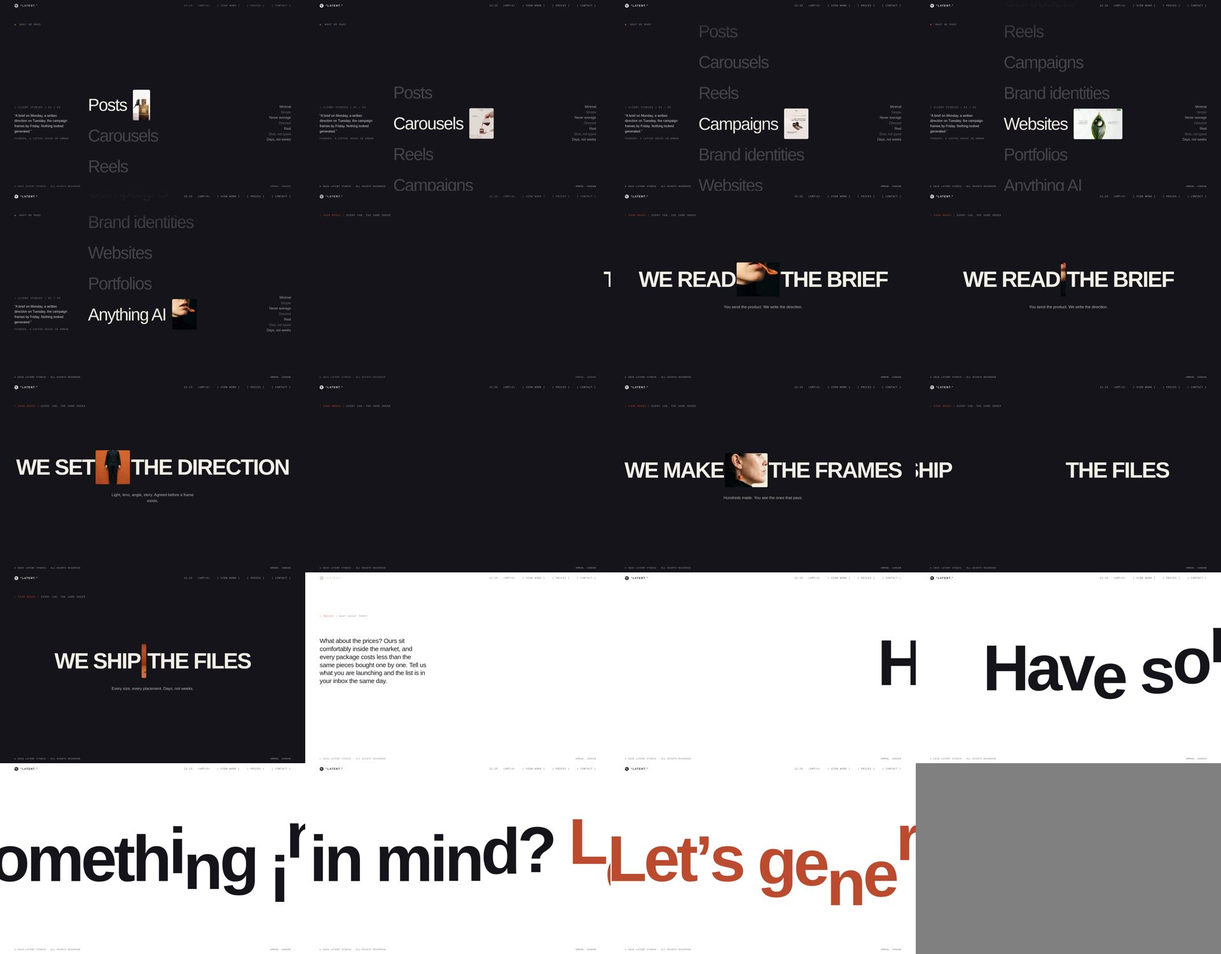
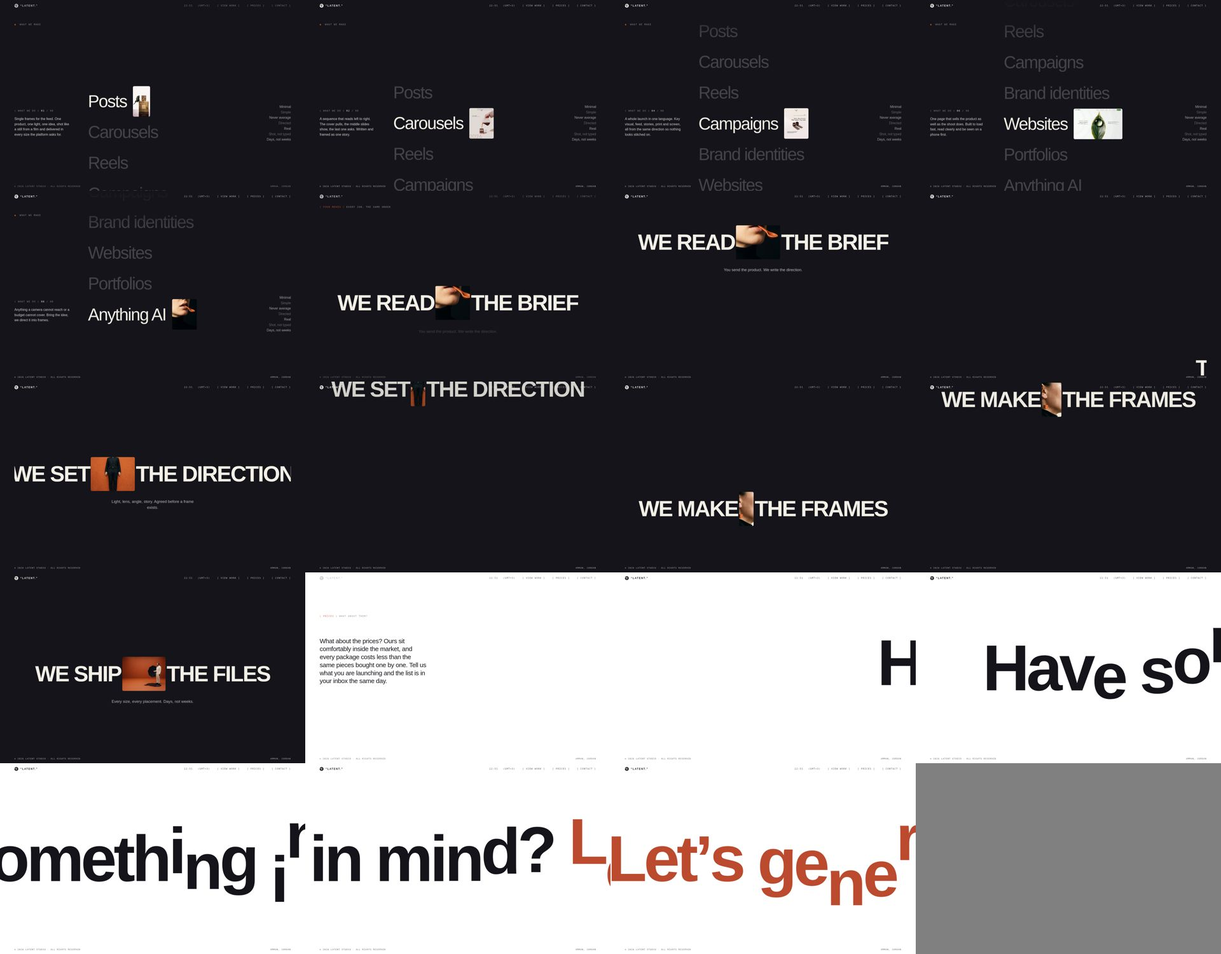
D: things list describes each service, four moves flow on the dark run
The block beside the things-we-make list now swaps to a short description of what we do for the active item, numbered 01 to 08. The four moves leave the pinned stage and sit in the page flow: each line plays as it scrolls through, words from both sides, the picture opening mid-screen and closing as it leaves. Phone list tightened so nothing overlaps the kicker or the footer.

Claude-Session: https://claude.ai/code/session_0142D8cuVtdJreCuNyu9fMo2

diff --git a/latent-v3d/index.html b/latent-v3d/index.html
@@ -2196,27 +2196,29 @@ a.stk-l{cursor:pointer}
 @media (prefers-reduced-motion:reduce){.gs-hold{height:auto}.gs-stage{position:relative;height:auto;padding:12vh var(--gut)}.gs-line{position:relative;transform:none!important;white-space:normal;font-size:clamp(40px,8vw,120px)}.gs-line .gc{transform:none!important}}
 /* ---------- the four moves, version four: we close that gap ---------- */
 .gp{padding:0}
-.gp-hold{position:relative;height:calc(100svh + var(--n,4) * 120vh)}
-.gp-stage{position:sticky;top:0;height:100vh;height:100svh;overflow:hidden}
-.gp-kick{position:absolute;left:var(--gut);top:clamp(72px,12vh,120px);margin:0;font-family:"IBM Plex Mono",monospace;font-size:11px;letter-spacing:.16em;text-transform:uppercase;color:rgba(242,239,231,.55)}
+.gp-in{max-width:none;padding:clamp(60px,14vh,160px) var(--gut) clamp(40px,10vh,120px)}
+.gp-kick{margin:0 0 clamp(120px,40vh,420px);font-family:"IBM Plex Mono",monospace;font-size:11px;letter-spacing:.16em;text-transform:uppercase;color:rgba(242,239,231,.55)}
 .gp-kick b{color:var(--marrow);font-weight:500}
-.gp-line{position:absolute;inset:0;display:flex;flex-direction:column;align-items:center;justify-content:center;visibility:hidden;padding:0 var(--gut)}
-.gp-line.on{visibility:visible}
+.gp-line{position:relative;display:flex;flex-direction:column;align-items:center;justify-content:center;margin:0 0 clamp(200px,72vh,760px);overflow:hidden;padding:.2em 0}
+.gp-line:last-child{margin-bottom:clamp(120px,30vh,320px)}
 .gp-row{display:flex;align-items:center;justify-content:center;white-space:nowrap;font-family:"Archivo","Helvetica Neue",Arial,sans-serif;font-weight:700;font-size:clamp(34px,7.2vw,124px);line-height:1;letter-spacing:-.045em;text-transform:uppercase;color:var(--ivory)}
 .gp-l,.gp-r{display:inline-block;will-change:transform}
 .gp-tile{display:inline-block;position:relative;height:1.55em;width:0;margin:0 .05em;border-radius:.05em;overflow:hidden;background:#000;will-change:width;flex:0 0 auto}
 .gp-tile img{position:absolute;top:0;left:50%;height:100%;width:auto;min-width:2.1em;transform:translateX(-50%);object-fit:cover;display:block}
 .gp-desc{margin:clamp(20px,4vh,40px) 0 0;max-width:38ch;text-align:center;font-size:clamp(15px,1.3vw,20px);line-height:1.5;color:rgba(242,239,231,.72);opacity:0;transform:translateY(12px);transition:opacity .5s ease,transform .6s cubic-bezier(.2,.8,.2,1)}
 .gp-line.told .gp-desc{opacity:1;transform:none}
-@media(max-width:820px){.gp-hold{height:calc(100svh + var(--n,4) * 100vh)}.gp-row{font-size:clamp(22px,6.2vw,34px);letter-spacing:-.04em}.gp-desc{font-size:15px}}
-@media (prefers-reduced-motion:reduce){.gp-hold{height:auto}.gp-stage{position:relative;height:auto}.gp-line{position:relative;visibility:visible;padding:14vh var(--gut)}.gp-tile{width:2em!important}.gp-l,.gp-r{transform:none!important}.gp-desc{opacity:1;transform:none}}
-/* ---------- things we make: the stacked list ---------- */
+@media(max-width:820px){.gp-kick{margin-bottom:clamp(80px,26vh,240px)}.gp-line{margin-bottom:clamp(140px,52vh,480px)}.gp-row{font-size:clamp(22px,6.2vw,34px);letter-spacing:-.04em}.gp-desc{font-size:15px}}
+@media (prefers-reduced-motion:reduce){.gp-tile{width:2em!important}.gp-l,.gp-r{transform:none!important}.gp-desc{opacity:1;transform:none}}
 .td{padding:0}
 .td-hold{position:relative;height:calc(100svh + var(--n,8) * 55vh)}
 .td-stage{position:sticky;top:0;height:100vh;height:100svh;overflow:hidden;display:flex;align-items:center}
 .td-grid{width:100%;height:100%;display:grid;grid-template-columns:minmax(0,.7fr) minmax(0,1.9fr) auto;gap:clamp(24px,4vw,80px);align-items:center;padding:0 var(--gut)}
 .td-kick{position:absolute;left:var(--gut);top:clamp(72px,12vh,120px);z-index:2}
 .td-list{position:relative;height:100%;display:flex;flex-direction:column;justify-content:center;-webkit-mask-image:linear-gradient(180deg,transparent 0,#000 16%,#000 84%,transparent 100%);mask-image:linear-gradient(180deg,transparent 0,#000 16%,#000 84%,transparent 100%)}
+.td-quote{display:grid;align-self:center}
+.td-desc{grid-area:1/1;opacity:0;transform:translateY(12px);transition:opacity .45s ease,transform .55s cubic-bezier(.2,.8,.2,1);pointer-events:none}
+.td-desc.on{opacity:1;transform:none}
+.td-mono b{font-weight:500;color:var(--ivory)}
 .td-mono{margin:0 0 18px;font-family:"IBM Plex Mono",monospace;font-size:11px;letter-spacing:.16em;text-transform:uppercase;color:rgba(242,239,231,.5)}
 .td-mono i{font-style:normal;color:var(--marrow);margin-right:8px}
 .td-q{margin:0;max-width:30ch;font-size:clamp(14px,1.1vw,17px);line-height:1.55;color:rgba(242,239,231,.85)}
@@ -2233,8 +2235,8 @@ a.stk-l{cursor:pointer}
 @media(max-width:820px){
   .td-hold{height:calc(100svh + var(--n,8) * 42vh)}
   .td-grid{grid-template-columns:1fr;gap:18px;align-content:center}
-  .td-quote{display:none}.td-side{display:none}
-  .td-name{font-size:clamp(34px,11vw,52px)}.td-thumb{height:64px}
+  .td-kick{top:64px}.td-grid{align-content:center;grid-template-rows:auto auto;padding-top:96px;padding-bottom:64px}.td-list{order:1;height:auto;mask-image:none;-webkit-mask-image:none}.td-quote{order:2;margin-top:6px}.td-q{font-size:14px;max-width:none}.td-mono{margin-bottom:10px}.td-side{display:none}
+  .td-name{font-size:clamp(28px,9vw,40px);line-height:1.02}.td-thumb{height:40px}
 }
 @media (prefers-reduced-motion:reduce){.td-hold{height:auto}.td-stage{position:relative;height:auto;padding:12vh 0}.td-name{color:var(--ivory)}.td-thumb{opacity:1;transform:none}}
 </style>
@@ -2330,7 +2332,7 @@ a.stk-l{cursor:pointer}
     <div class="td-stage">
       <p class="td-mono td-kick"><i>&#9679;</i> What we make</p>
       <div class="td-grid">
-        <div class="td-quote"><p class="td-mono">( Client stories ) 01 / 03</p><p class="td-q">&ldquo;A brief on Monday, a written direction on Tuesday, the campaign frames by Friday. Nothing looked generated.&rdquo;</p><p class="td-who">Founder, a coffee house in Amman</p></div>
+        <div class="td-quote"><div class="td-desc js-td-desc on"><p class="td-mono">( What we do ) <b>01</b> / 08</p><p class="td-q">Single frames for the feed. One product, one light, one idea, shot like a still from a film and delivered in every size the platform asks for.</p></div><div class="td-desc js-td-desc"><p class="td-mono">( What we do ) <b>02</b> / 08</p><p class="td-q">A sequence that reads left to right. The cover pulls, the middle slides show, the last one asks. Written and framed as one story.</p></div><div class="td-desc js-td-desc"><p class="td-mono">( What we do ) <b>03</b> / 08</p><p class="td-q">Short films for the feed. Directed shot by shot and cut to the beat. No set, no crew, no reshoot day.</p></div><div class="td-desc js-td-desc"><p class="td-mono">( What we do ) <b>04</b> / 08</p><p class="td-q">A whole launch in one language. Key visual, feed, stories, print and screen, all from the same direction so nothing looks stitched on.</p></div><div class="td-desc js-td-desc"><p class="td-mono">( What we do ) <b>05</b> / 08</p><p class="td-q">The look that comes before the shoot. Colour, type, tone and the rules that keep every frame recognisably yours.</p></div><div class="td-desc js-td-desc"><p class="td-mono">( What we do ) <b>06</b> / 08</p><p class="td-q">One page that sells the product as well as the shoot does. Built to load fast, read clearly and be seen on a phone first.</p></div><div class="td-desc js-td-desc"><p class="td-mono">( What we do ) <b>07</b> / 08</p><p class="td-q">Your work, presented. A clean set of pages that shows what you make and gets out of the way.</p></div><div class="td-desc js-td-desc"><p class="td-mono">( What we do ) <b>08</b> / 08</p><p class="td-q">Anything a camera cannot reach or a budget cannot cover. Bring the idea; we direct it into frames.</p></div></div>
         <div class="td-list"><div class="td-items">
         <div class="td-item js-td-item on" data-i="0"><span class="td-name">Posts</span><span class="td-thumb" style="--ar:900/1612"><img fetchpriority="low" src="media/14-e1887959c2.jpg" alt="" loading="lazy" decoding="async"></span></div>
         <div class="td-item js-td-item" data-i="1"><span class="td-name">Carousels</span><span class="td-thumb" style="--ar:4/5"><img fetchpriority="low" src="media/15-7b1a9203b7.jpg" alt="" loading="lazy" decoding="async"></span></div>
@@ -2367,9 +2369,8 @@ a.stk-l{cursor:pointer}
 <!-- ================= PORTFOLIO — one locked stage: the media and the words appear in place, the name rotates in (21st TextRotate) ================= -->
 <!-- ================= PROCESS — the four moves as an index ================= -->
 <section class="sec dark gp js-gp" id="process">
-  <div class="gp-hold js-gp-hold" style="--n:4">
-    <div class="gp-stage">
-      <p class="gp-kick"><b>( Four moves )</b> Every job, the same order</p>
+  <div class="gp-in">
+    <p class="gp-kick"><b>( Four moves )</b> Every job, the same order</p>
       <div class="gp-line js-gp-line" data-i="0">
         <div class="gp-row"><span class="gp-l">We read</span><span class="gp-tile"><img fetchpriority="low" src="media/05-0c45a9b23b.jpg" alt="" loading="lazy" decoding="async"></span><span class="gp-r">the brief</span></div>
         <p class="gp-desc">You send the product. We write the direction.</p>
@@ -2386,7 +2387,6 @@ a.stk-l{cursor:pointer}
         <div class="gp-row"><span class="gp-l">We ship</span><span class="gp-tile"><img fetchpriority="low" src="media/10-a617fdf2b6.jpg" alt="" loading="lazy" decoding="async"></span><span class="gp-r">the files</span></div>
         <p class="gp-desc">Every size, every placement. Days, not weeks.</p>
       </div>
-    </div>
   </div>
 </section>
 
@@ -4006,27 +4006,28 @@ a.stk-l{cursor:pointer}
   function onScroll(){ if(!ticking){ ticking = true; requestAnimationFrame(frame); } }
   window.addEventListener("scroll", onScroll, { passive:true }); window.addEventListener("resize", measure); window.addEventListener("load", measure); if(document.fonts && document.fonts.ready) document.fonts.ready.then(measure); measure();
 })();
-/* the four moves, version four: we close that gap. Each move takes one segment of the hold: the right words come in
-   from the right, the left words from the left, the picture opens between them, holds, then squeezes shut as the
-   words close the gap; the description shows while the picture is open. */
+/* the four moves, version four: we close that gap, on the flowing dark run. Each move sits in the page and plays
+   as it rises through the screen: the right words come in from the right, the left words from the left, the picture
+   opens between them while the line sits mid-screen, the description shows, then the picture squeezes shut and the
+   words close the gap as the line leaves at the top. Scrolling back replays it in reverse. */
 (function(){
   var sec = document.querySelector(".js-gp"); if(!sec) return;
-  var hold = sec.querySelector(".js-gp-hold"), lines = [].slice.call(sec.querySelectorAll(".js-gp-line")), N = lines.length, reduce = window.matchMedia("(prefers-reduced-motion: reduce)").matches, ticking = false;
-  var L = lines.map(function(l){ return { el: l, a: l.querySelector(".gp-l"), b: l.querySelector(".gp-r"), t: l.querySelector(".gp-tile") }; });
+  var lines = [].slice.call(sec.querySelectorAll(".js-gp-line")), reduce = window.matchMedia("(prefers-reduced-motion: reduce)").matches, ticking = false;
+  var L = lines.map(function(l){ return { el: l, a: l.querySelector(".gp-l"), b: l.querySelector(".gp-r"), t: l.querySelector(".gp-tile"), row: l.querySelector(".gp-row"), img: l.querySelector(".gp-tile img") }; });
   var ease = function(t){ return t * t * (3 - 2 * t); }, clamp = function(v){ return Math.min(1, Math.max(0, v)); };
   function frame(){
-    ticking = false; if(reduce) return; var vh = window.innerHeight, vw = window.innerWidth, b = hold.getBoundingClientRect(); if(b.bottom < -10 || b.top > vh + 10) return;
-    var run = Math.max(1, hold.offsetHeight - vh), p = clamp(-b.top / run), f = p * N;
-    L.forEach(function(o, i){
-      var q = f - i, on = q > -0.001 && q < 1.0001 || (i === N - 1 && q >= 1); o.el.classList.toggle("on", on); if(!on) return;
-      q = clamp(q);
-      var inR = ease(clamp(q / .22)), inL = ease(clamp((q - .08) / .24)), open = ease(clamp((q - .3) / .2)) * (1 - ease(clamp((q - .72) / .2)));
-      var fs = parseFloat(getComputedStyle(o.el.querySelector(".gp-row")).fontSize), tileW = fs * 2.0 * open;
+    ticking = false; if(reduce) return; var vh = window.innerHeight, vw = window.innerWidth;
+    L.forEach(function(o){
+      var r = o.el.getBoundingClientRect(); if(o.img && r.top < vh * 2.5 && o.img.loading !== "eager") o.img.loading = "eager";
+      if(r.bottom < -10 || r.top > vh + 10) return;
+      var a = clamp((vh * .92 - r.top) / (vh * .5)), e = clamp((vh * .42 - r.bottom) / (vh * .3));
+      var inR = ease(clamp(a / .55)), inL = ease(clamp((a - .12) / .55)), open = ease(clamp((a - .5) / .5)) * (1 - ease(e));
+      var fs = parseFloat(getComputedStyle(o.row).fontSize), tileW = fs * 2.0 * open;
       o.b.style.transform = "translate3d(" + ((1 - inR) * vw * .7).toFixed(1) + "px,0,0)";
       o.a.style.transform = "translate3d(" + (-(1 - inL) * vw * .7).toFixed(1) + "px,0,0)";
       o.t.style.width = tileW.toFixed(1) + "px";
-      o.el.classList.toggle("told", q > .34 && q < .9);
-      var out = i < N - 1 ? ease(clamp((q - .92) / .08)) : 0; o.el.style.opacity = (1 - out).toFixed(3);
+      o.el.classList.toggle("told", a > .7 && e < .35);
+      o.el.style.opacity = (1 - ease(clamp((e - .5) / .5))).toFixed(3);
     });
   }
   function onScroll(){ if(!ticking){ ticking = true; requestAnimationFrame(frame); } }
@@ -4040,8 +4041,9 @@ a.stk-l{cursor:pointer}
     ticking = false; var vh = window.innerHeight, b = hold.getBoundingClientRect(); if(b.bottom < -10 || b.top > vh + 10) return;
     var run = Math.max(1, hold.offsetHeight - vh), p = Math.min(1, Math.max(0, -b.top / run)), i = Math.min(N - 1, Math.floor(p * N));
     if(i !== at){ at = i; items.forEach(function(it, k){ it.classList.toggle("on", k === i); });
+      [].forEach.call(sec.querySelectorAll(".js-td-desc"), function(d, k){ d.classList.toggle("on", k === i); });
       var list = items[i].parentNode, st = list.parentNode.getBoundingClientRect(), it = items[i], c = it.offsetTop + it.offsetHeight / 2;
-      list.style.transform = "translate3d(0," + (list.offsetHeight / 2 - c).toFixed(1) + "px,0)"; }
+      list.style.transform = window.innerWidth > 820 ? "translate3d(0," + (list.offsetHeight / 2 - c).toFixed(1) + "px,0)" : "none"; }
   }
   window.addEventListener("scroll", function(){ if(!ticking){ ticking = true; requestAnimationFrame(frame); } }, { passive:true }); window.addEventListener("resize", frame); frame();
 })();

diff --git a/latent-v3-src/v3_css8.css b/latent-v3-src/v3_css8.css
@@ -477,27 +477,29 @@
 @media (prefers-reduced-motion:reduce){.gs-hold{height:auto}.gs-stage{position:relative;height:auto;padding:12vh var(--gut)}.gs-line{position:relative;transform:none!important;white-space:normal;font-size:clamp(40px,8vw,120px)}.gs-line .gc{transform:none!important}}
 /* ---------- the four moves, version four: we close that gap ---------- */
 .gp{padding:0}
-.gp-hold{position:relative;height:calc(100svh + var(--n,4) * 120vh)}
-.gp-stage{position:sticky;top:0;height:100vh;height:100svh;overflow:hidden}
-.gp-kick{position:absolute;left:var(--gut);top:clamp(72px,12vh,120px);margin:0;font-family:"IBM Plex Mono",monospace;font-size:11px;letter-spacing:.16em;text-transform:uppercase;color:rgba(242,239,231,.55)}
+.gp-in{max-width:none;padding:clamp(60px,14vh,160px) var(--gut) clamp(40px,10vh,120px)}
+.gp-kick{margin:0 0 clamp(120px,40vh,420px);font-family:"IBM Plex Mono",monospace;font-size:11px;letter-spacing:.16em;text-transform:uppercase;color:rgba(242,239,231,.55)}
 .gp-kick b{color:var(--marrow);font-weight:500}
-.gp-line{position:absolute;inset:0;display:flex;flex-direction:column;align-items:center;justify-content:center;visibility:hidden;padding:0 var(--gut)}
-.gp-line.on{visibility:visible}
+.gp-line{position:relative;display:flex;flex-direction:column;align-items:center;justify-content:center;margin:0 0 clamp(200px,72vh,760px);overflow:hidden;padding:.2em 0}
+.gp-line:last-child{margin-bottom:clamp(120px,30vh,320px)}
 .gp-row{display:flex;align-items:center;justify-content:center;white-space:nowrap;font-family:"Archivo","Helvetica Neue",Arial,sans-serif;font-weight:700;font-size:clamp(34px,7.2vw,124px);line-height:1;letter-spacing:-.045em;text-transform:uppercase;color:var(--ivory)}
 .gp-l,.gp-r{display:inline-block;will-change:transform}
 .gp-tile{display:inline-block;position:relative;height:1.55em;width:0;margin:0 .05em;border-radius:.05em;overflow:hidden;background:#000;will-change:width;flex:0 0 auto}
 .gp-tile img{position:absolute;top:0;left:50%;height:100%;width:auto;min-width:2.1em;transform:translateX(-50%);object-fit:cover;display:block}
 .gp-desc{margin:clamp(20px,4vh,40px) 0 0;max-width:38ch;text-align:center;font-size:clamp(15px,1.3vw,20px);line-height:1.5;color:rgba(242,239,231,.72);opacity:0;transform:translateY(12px);transition:opacity .5s ease,transform .6s cubic-bezier(.2,.8,.2,1)}
 .gp-line.told .gp-desc{opacity:1;transform:none}
-@media(max-width:820px){.gp-hold{height:calc(100svh + var(--n,4) * 100vh)}.gp-row{font-size:clamp(22px,6.2vw,34px);letter-spacing:-.04em}.gp-desc{font-size:15px}}
-@media (prefers-reduced-motion:reduce){.gp-hold{height:auto}.gp-stage{position:relative;height:auto}.gp-line{position:relative;visibility:visible;padding:14vh var(--gut)}.gp-tile{width:2em!important}.gp-l,.gp-r{transform:none!important}.gp-desc{opacity:1;transform:none}}
-/* ---------- things we make: the stacked list ---------- */
+@media(max-width:820px){.gp-kick{margin-bottom:clamp(80px,26vh,240px)}.gp-line{margin-bottom:clamp(140px,52vh,480px)}.gp-row{font-size:clamp(22px,6.2vw,34px);letter-spacing:-.04em}.gp-desc{font-size:15px}}
+@media (prefers-reduced-motion:reduce){.gp-tile{width:2em!important}.gp-l,.gp-r{transform:none!important}.gp-desc{opacity:1;transform:none}}
 .td{padding:0}
 .td-hold{position:relative;height:calc(100svh + var(--n,8) * 55vh)}
 .td-stage{position:sticky;top:0;height:100vh;height:100svh;overflow:hidden;display:flex;align-items:center}
 .td-grid{width:100%;height:100%;display:grid;grid-template-columns:minmax(0,.7fr) minmax(0,1.9fr) auto;gap:clamp(24px,4vw,80px);align-items:center;padding:0 var(--gut)}
 .td-kick{position:absolute;left:var(--gut);top:clamp(72px,12vh,120px);z-index:2}
 .td-list{position:relative;height:100%;display:flex;flex-direction:column;justify-content:center;-webkit-mask-image:linear-gradient(180deg,transparent 0,#000 16%,#000 84%,transparent 100%);mask-image:linear-gradient(180deg,transparent 0,#000 16%,#000 84%,transparent 100%)}
+.td-quote{display:grid;align-self:center}
+.td-desc{grid-area:1/1;opacity:0;transform:translateY(12px);transition:opacity .45s ease,transform .55s cubic-bezier(.2,.8,.2,1);pointer-events:none}
+.td-desc.on{opacity:1;transform:none}
+.td-mono b{font-weight:500;color:var(--ivory)}
 .td-mono{margin:0 0 18px;font-family:"IBM Plex Mono",monospace;font-size:11px;letter-spacing:.16em;text-transform:uppercase;color:rgba(242,239,231,.5)}
 .td-mono i{font-style:normal;color:var(--marrow);margin-right:8px}
 .td-q{margin:0;max-width:30ch;font-size:clamp(14px,1.1vw,17px);line-height:1.55;color:rgba(242,239,231,.85)}
@@ -514,7 +516,7 @@
 @media(max-width:820px){
   .td-hold{height:calc(100svh + var(--n,8) * 42vh)}
   .td-grid{grid-template-columns:1fr;gap:18px;align-content:center}
-  .td-quote{display:none}.td-side{display:none}
-  .td-name{font-size:clamp(34px,11vw,52px)}.td-thumb{height:64px}
+  .td-kick{top:64px}.td-grid{align-content:center;grid-template-rows:auto auto;padding-top:96px;padding-bottom:64px}.td-list{order:1;height:auto;mask-image:none;-webkit-mask-image:none}.td-quote{order:2;margin-top:6px}.td-q{font-size:14px;max-width:none}.td-mono{margin-bottom:10px}.td-side{display:none}
+  .td-name{font-size:clamp(28px,9vw,40px);line-height:1.02}.td-thumb{height:40px}
 }
 @media (prefers-reduced-motion:reduce){.td-hold{height:auto}.td-stage{position:relative;height:auto;padding:12vh 0}.td-name{color:var(--ivory)}.td-thumb{opacity:1;transform:none}}

diff --git a/latent-v3-src/v3_cases2.js b/latent-v3-src/v3_cases2.js
@@ -447,27 +447,28 @@
   function onScroll(){ if(!ticking){ ticking = true; requestAnimationFrame(frame); } }
   window.addEventListener("scroll", onScroll, { passive:true }); window.addEventListener("resize", measure); window.addEventListener("load", measure); if(document.fonts && document.fonts.ready) document.fonts.ready.then(measure); measure();
 })();
-/* the four moves, version four: we close that gap. Each move takes one segment of the hold: the right words come in
-   from the right, the left words from the left, the picture opens between them, holds, then squeezes shut as the
-   words close the gap; the description shows while the picture is open. */
+/* the four moves, version four: we close that gap, on the flowing dark run. Each move sits in the page and plays
+   as it rises through the screen: the right words come in from the right, the left words from the left, the picture
+   opens between them while the line sits mid-screen, the description shows, then the picture squeezes shut and the
+   words close the gap as the line leaves at the top. Scrolling back replays it in reverse. */
 (function(){
   var sec = document.querySelector(".js-gp"); if(!sec) return;
-  var hold = sec.querySelector(".js-gp-hold"), lines = [].slice.call(sec.querySelectorAll(".js-gp-line")), N = lines.length, reduce = window.matchMedia("(prefers-reduced-motion: reduce)").matches, ticking = false;
-  var L = lines.map(function(l){ return { el: l, a: l.querySelector(".gp-l"), b: l.querySelector(".gp-r"), t: l.querySelector(".gp-tile") }; });
+  var lines = [].slice.call(sec.querySelectorAll(".js-gp-line")), reduce = window.matchMedia("(prefers-reduced-motion: reduce)").matches, ticking = false;
+  var L = lines.map(function(l){ return { el: l, a: l.querySelector(".gp-l"), b: l.querySelector(".gp-r"), t: l.querySelector(".gp-tile"), row: l.querySelector(".gp-row"), img: l.querySelector(".gp-tile img") }; });
   var ease = function(t){ return t * t * (3 - 2 * t); }, clamp = function(v){ return Math.min(1, Math.max(0, v)); };
   function frame(){
-    ticking = false; if(reduce) return; var vh = window.innerHeight, vw = window.innerWidth, b = hold.getBoundingClientRect(); if(b.bottom < -10 || b.top > vh + 10) return;
-    var run = Math.max(1, hold.offsetHeight - vh), p = clamp(-b.top / run), f = p * N;
-    L.forEach(function(o, i){
-      var q = f - i, on = q > -0.001 && q < 1.0001 || (i === N - 1 && q >= 1); o.el.classList.toggle("on", on); if(!on) return;
-      q = clamp(q);
-      var inR = ease(clamp(q / .22)), inL = ease(clamp((q - .08) / .24)), open = ease(clamp((q - .3) / .2)) * (1 - ease(clamp((q - .72) / .2)));
-      var fs = parseFloat(getComputedStyle(o.el.querySelector(".gp-row")).fontSize), tileW = fs * 2.0 * open;
+    ticking = false; if(reduce) return; var vh = window.innerHeight, vw = window.innerWidth;
+    L.forEach(function(o){
+      var r = o.el.getBoundingClientRect(); if(o.img && r.top < vh * 2.5 && o.img.loading !== "eager") o.img.loading = "eager";
+      if(r.bottom < -10 || r.top > vh + 10) return;
+      var a = clamp((vh * .92 - r.top) / (vh * .5)), e = clamp((vh * .42 - r.bottom) / (vh * .3));
+      var inR = ease(clamp(a / .55)), inL = ease(clamp((a - .12) / .55)), open = ease(clamp((a - .5) / .5)) * (1 - ease(e));
+      var fs = parseFloat(getComputedStyle(o.row).fontSize), tileW = fs * 2.0 * open;
       o.b.style.transform = "translate3d(" + ((1 - inR) * vw * .7).toFixed(1) + "px,0,0)";
       o.a.style.transform = "translate3d(" + (-(1 - inL) * vw * .7).toFixed(1) + "px,0,0)";
       o.t.style.width = tileW.toFixed(1) + "px";
-      o.el.classList.toggle("told", q > .34 && q < .9);
-      var out = i < N - 1 ? ease(clamp((q - .92) / .08)) : 0; o.el.style.opacity = (1 - out).toFixed(3);
+      o.el.classList.toggle("told", a > .7 && e < .35);
+      o.el.style.opacity = (1 - ease(clamp((e - .5) / .5))).toFixed(3);
     });
   }
   function onScroll(){ if(!ticking){ ticking = true; requestAnimationFrame(frame); } }
@@ -481,8 +482,9 @@
     ticking = false; var vh = window.innerHeight, b = hold.getBoundingClientRect(); if(b.bottom < -10 || b.top > vh + 10) return;
     var run = Math.max(1, hold.offsetHeight - vh), p = Math.min(1, Math.max(0, -b.top / run)), i = Math.min(N - 1, Math.floor(p * N));
     if(i !== at){ at = i; items.forEach(function(it, k){ it.classList.toggle("on", k === i); });
+      [].forEach.call(sec.querySelectorAll(".js-td-desc"), function(d, k){ d.classList.toggle("on", k === i); });
       var list = items[i].parentNode, st = list.parentNode.getBoundingClientRect(), it = items[i], c = it.offsetTop + it.offsetHeight / 2;
-      list.style.transform = "translate3d(0," + (list.offsetHeight / 2 - c).toFixed(1) + "px,0)"; }
+      list.style.transform = window.innerWidth > 820 ? "translate3d(0," + (list.offsetHeight / 2 - c).toFixed(1) + "px,0)" : "none"; }
   }
   window.addEventListener("scroll", function(){ if(!ticking){ ticking = true; requestAnimationFrame(frame); } }, { passive:true }); window.addEventListener("resize", frame); frame();
 })();

diff --git a/latent-v3-src/v3_port.py b/latent-v3-src/v3_port.py
@@ -22,15 +22,22 @@ if os.environ.get('PORTFOLIO')=='5':
     def _first_img(i,k=0):
         try: return _poster(_figs[i][k])
         except Exception: return ''
-    THINGS=[('Posts',_first_img(0,1),'900/1612'),('Carousels',_first_img(1,0),'4/5'),('Reels',_first_img(0,0),'720/1290'),('Campaigns',_first_img(1,1),'4/5'),
-            ('Brand identities',_first_img(3,0),'4/5'),('Websites',_first_img(2,0),'16/10'),('Portfolios',_first_img(4,0),'4/5'),('Anything AI',shoes,'1288/1600')]
-    _items=''.join('        <div class="td-item js-td-item%s" data-i="%d"><span class="td-name">%s</span><span class="td-thumb" style="--ar:%s"><img src="%s" alt="" loading="lazy" decoding="async"></span></div>\n'%(' on' if i==0 else '',i,n,ar,img) for i,(n,img,ar) in enumerate(THINGS))
+    THINGS=[('Posts',_first_img(0,1),'900/1612','Single frames for the feed. One product, one light, one idea, shot like a still from a film and delivered in every size the platform asks for.'),
+            ('Carousels',_first_img(1,0),'4/5','A sequence that reads left to right. The cover pulls, the middle slides show, the last one asks. Written and framed as one story.'),
+            ('Reels',_first_img(0,0),'720/1290','Short films for the feed. Directed shot by shot and cut to the beat. No set, no crew, no reshoot day.'),
+            ('Campaigns',_first_img(1,1),'4/5','A whole launch in one language. Key visual, feed, stories, print and screen, all from the same direction so nothing looks stitched on.'),
+            ('Brand identities',_first_img(3,0),'4/5','The look that comes before the shoot. Colour, type, tone and the rules that keep every frame recognisably yours.'),
+            ('Websites',_first_img(2,0),'16/10','One page that sells the product as well as the shoot does. Built to load fast, read clearly and be seen on a phone first.'),
+            ('Portfolios',_first_img(4,0),'4/5','Your work, presented. A clean set of pages that shows what you make and gets out of the way.'),
+            ('Anything AI',shoes,'1288/1600','Anything a camera cannot reach or a budget cannot cover. Bring the idea; we direct it into frames.')]
+    _items=''.join('        <div class="td-item js-td-item%s" data-i="%d"><span class="td-name">%s</span><span class="td-thumb" style="--ar:%s"><img src="%s" alt="" loading="lazy" decoding="async"></span></div>\n'%(' on' if i==0 else '',i,n,ar,img) for i,(n,img,ar,d) in enumerate(THINGS))
+    _descs=''.join('<div class="td-desc js-td-desc%s"><p class="td-mono">( What we do ) <b>%02d</b> / %02d</p><p class="td-q">%s</p></div>'%(' on' if i==0 else '',i+1,len(THINGS),d) for i,(n,img,ar,d) in enumerate(THINGS))
     _port='''<section class="sec dark td js-td" id="work">
   <div class="td-hold js-td-hold" style="--n:%d">
     <div class="td-stage">
       <p class="td-mono td-kick"><i>&#9679;</i> What we make</p>
       <div class="td-grid">
-        <div class="td-quote"><p class="td-mono">( Client stories ) 01 / 03</p><p class="td-q">&ldquo;A brief on Monday, a written direction on Tuesday, the campaign frames by Friday. Nothing looked generated.&rdquo;</p><p class="td-who">Founder, a coffee house in Amman</p></div>
+        <div class="td-quote">%s</div>
         <div class="td-list"><div class="td-items">
 %s        </div></div>
         <div class="td-side"><span>Minimal</span><span>Simple</span><span>Never average</span><span>Directed</span><span>Real</span><span>Shot, not typed</span><span>Days, not weeks</span></div>
@@ -38,7 +45,7 @@ if os.environ.get('PORTFOLIO')=='5':
     </div>
   </div>
 </section>
-'''%(len(THINGS),_items)
+'''%(len(THINGS),_descs,_items)
 elif os.environ.get('PORTFOLIO')=='4':
     # ---- version four: the white path mechanism in the black style. Each project is a row: the lead piece opens
     #      widthwise from its side (right, then left, alternating) with the name beside it; the rest of its pieces

diff --git a/latent-v3-src/v3_process4.py b/latent-v3-src/v3_process4.py
@@ -14,10 +14,8 @@ _lines=''.join('''      <div class="gp-line js-gp-line" data-i="%d">
       </div>
 '''%(i,l,img,r,d) for i,(l,r,d,img) in enumerate(GAP))
 _new4p='''<section class="sec dark gp js-gp" id="process">
-  <div class="gp-hold js-gp-hold" style="--n:%d">
-    <div class="gp-stage">
-      <p class="gp-kick"><b>( Four moves )</b> Every job, the same order</p>
-%s    </div>
-  </div>
-</section>'''%(len(GAP),_lines)
+  <div class="gp-in">
+    <p class="gp-kick"><b>( Four moves )</b> Every job, the same order</p>
+%s  </div>
+</section>'''%(_lines,)
 s=s[:_pi4p]+_new4p+s[_pj4p:]
